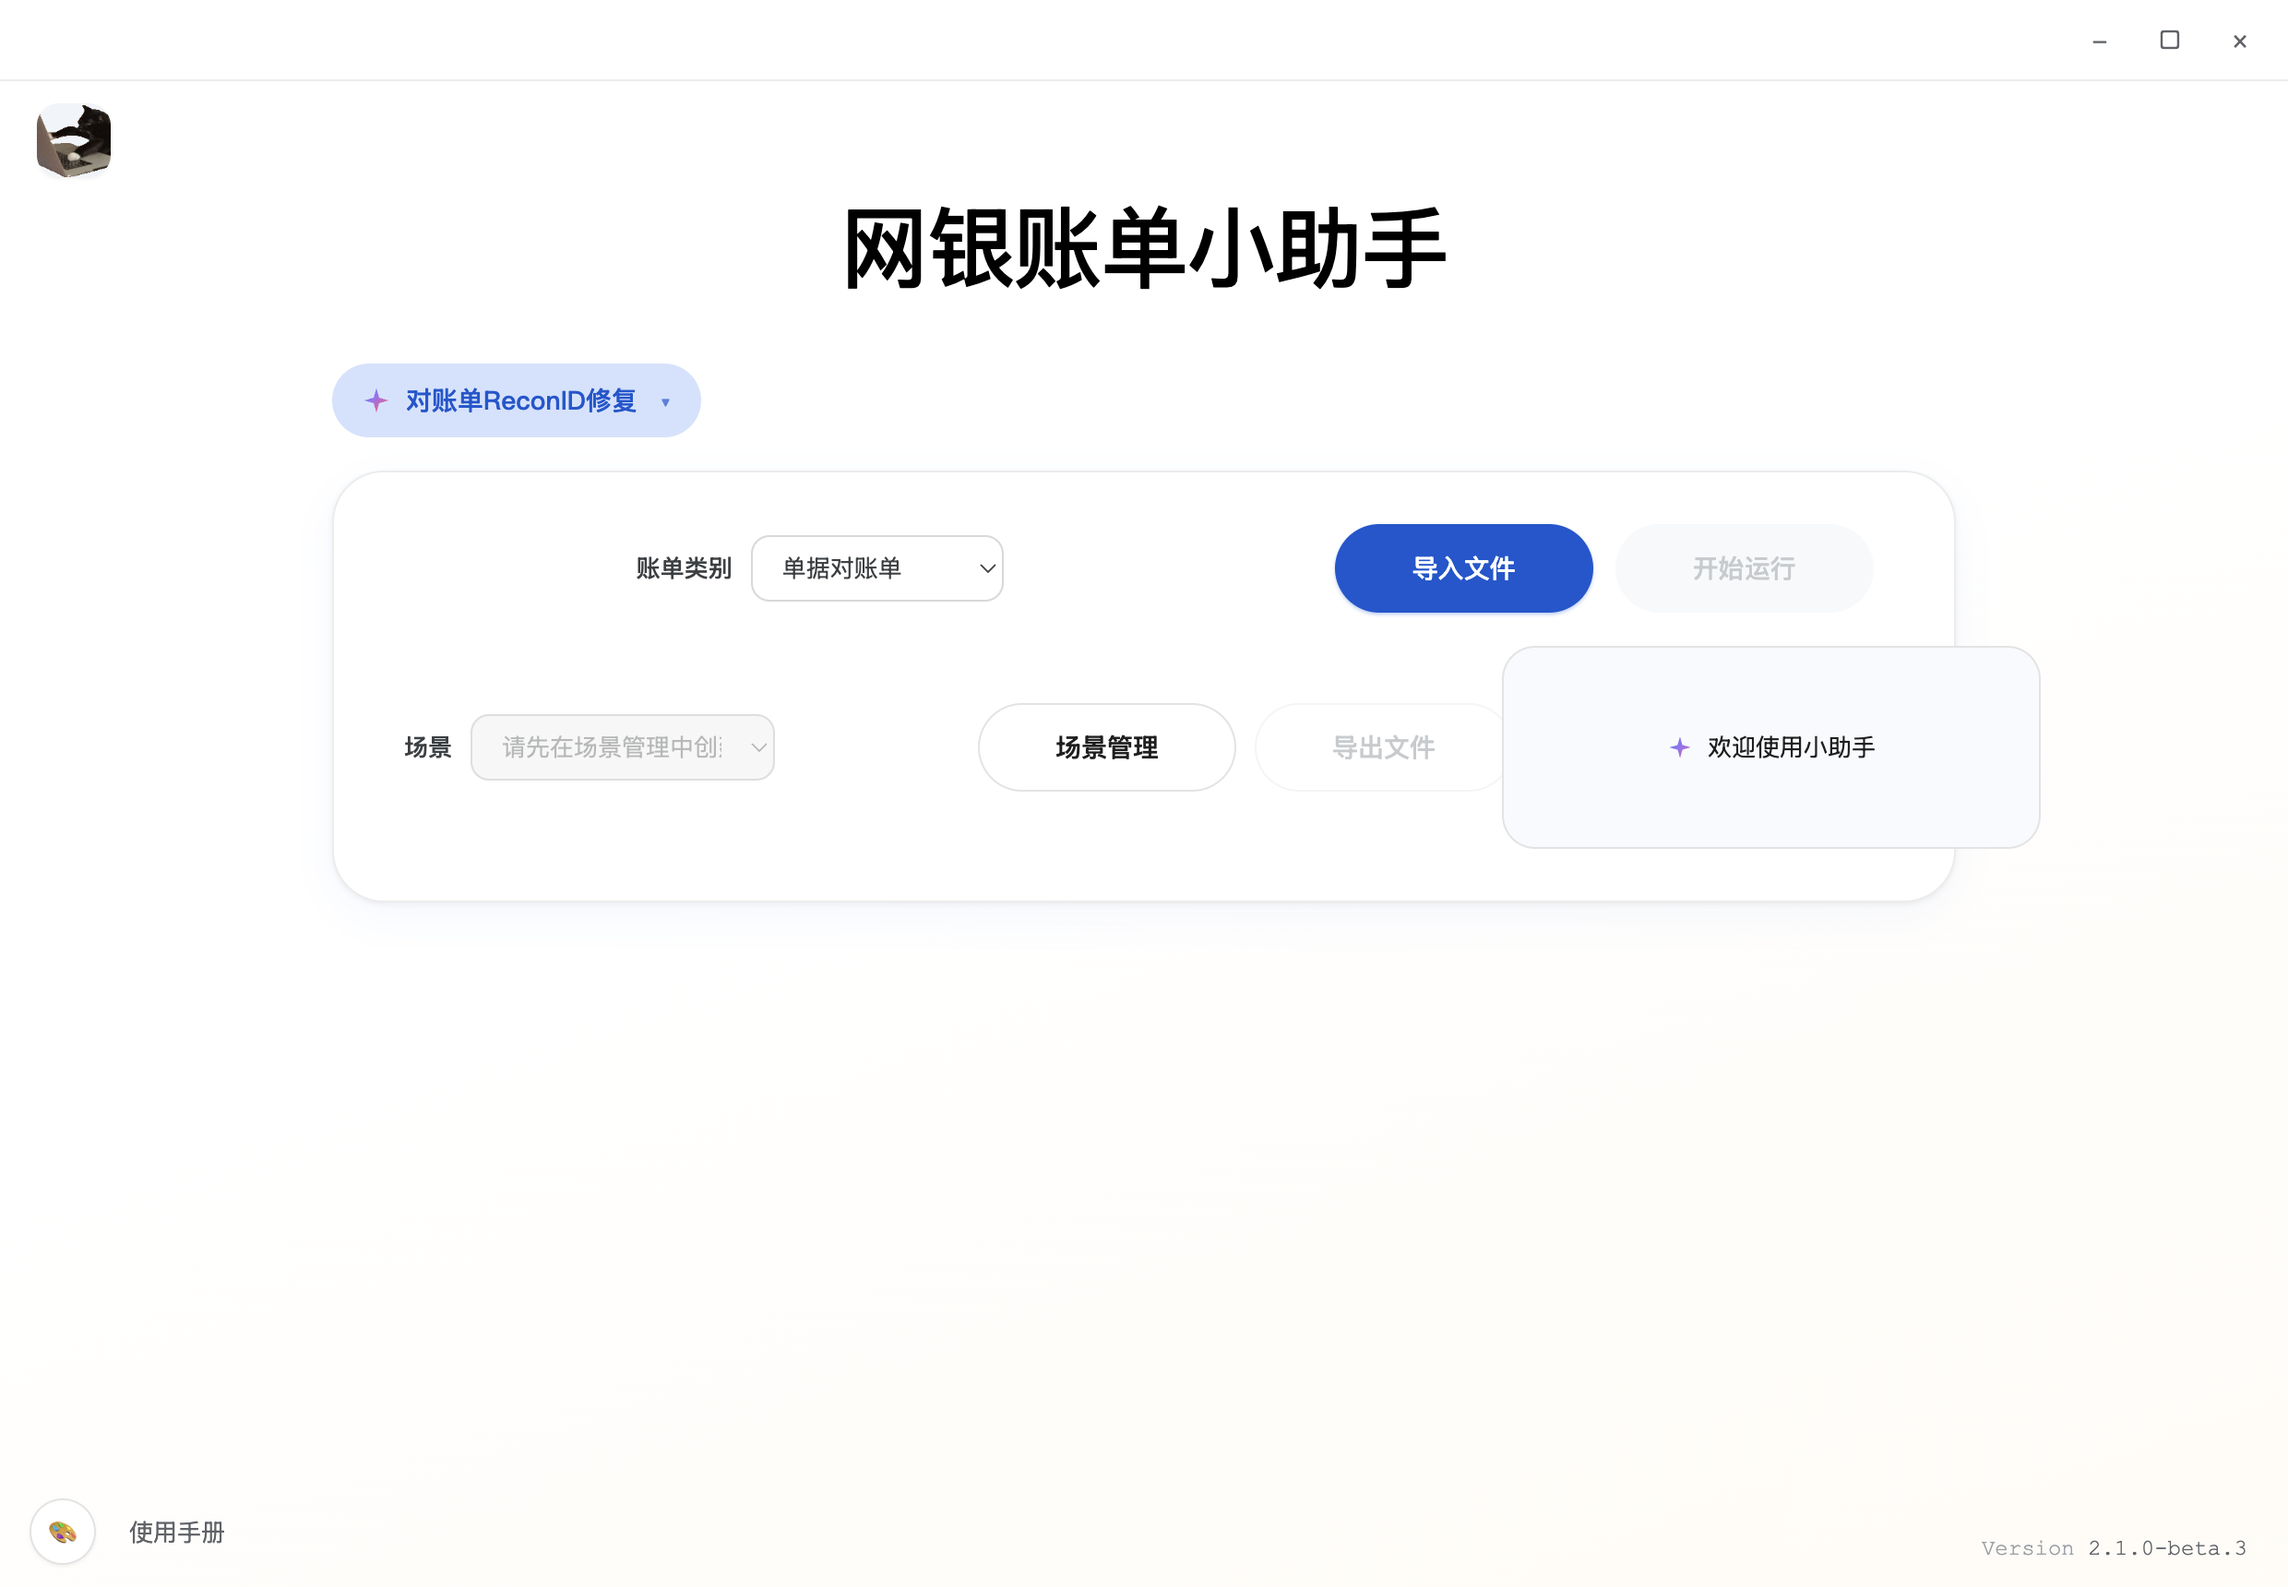
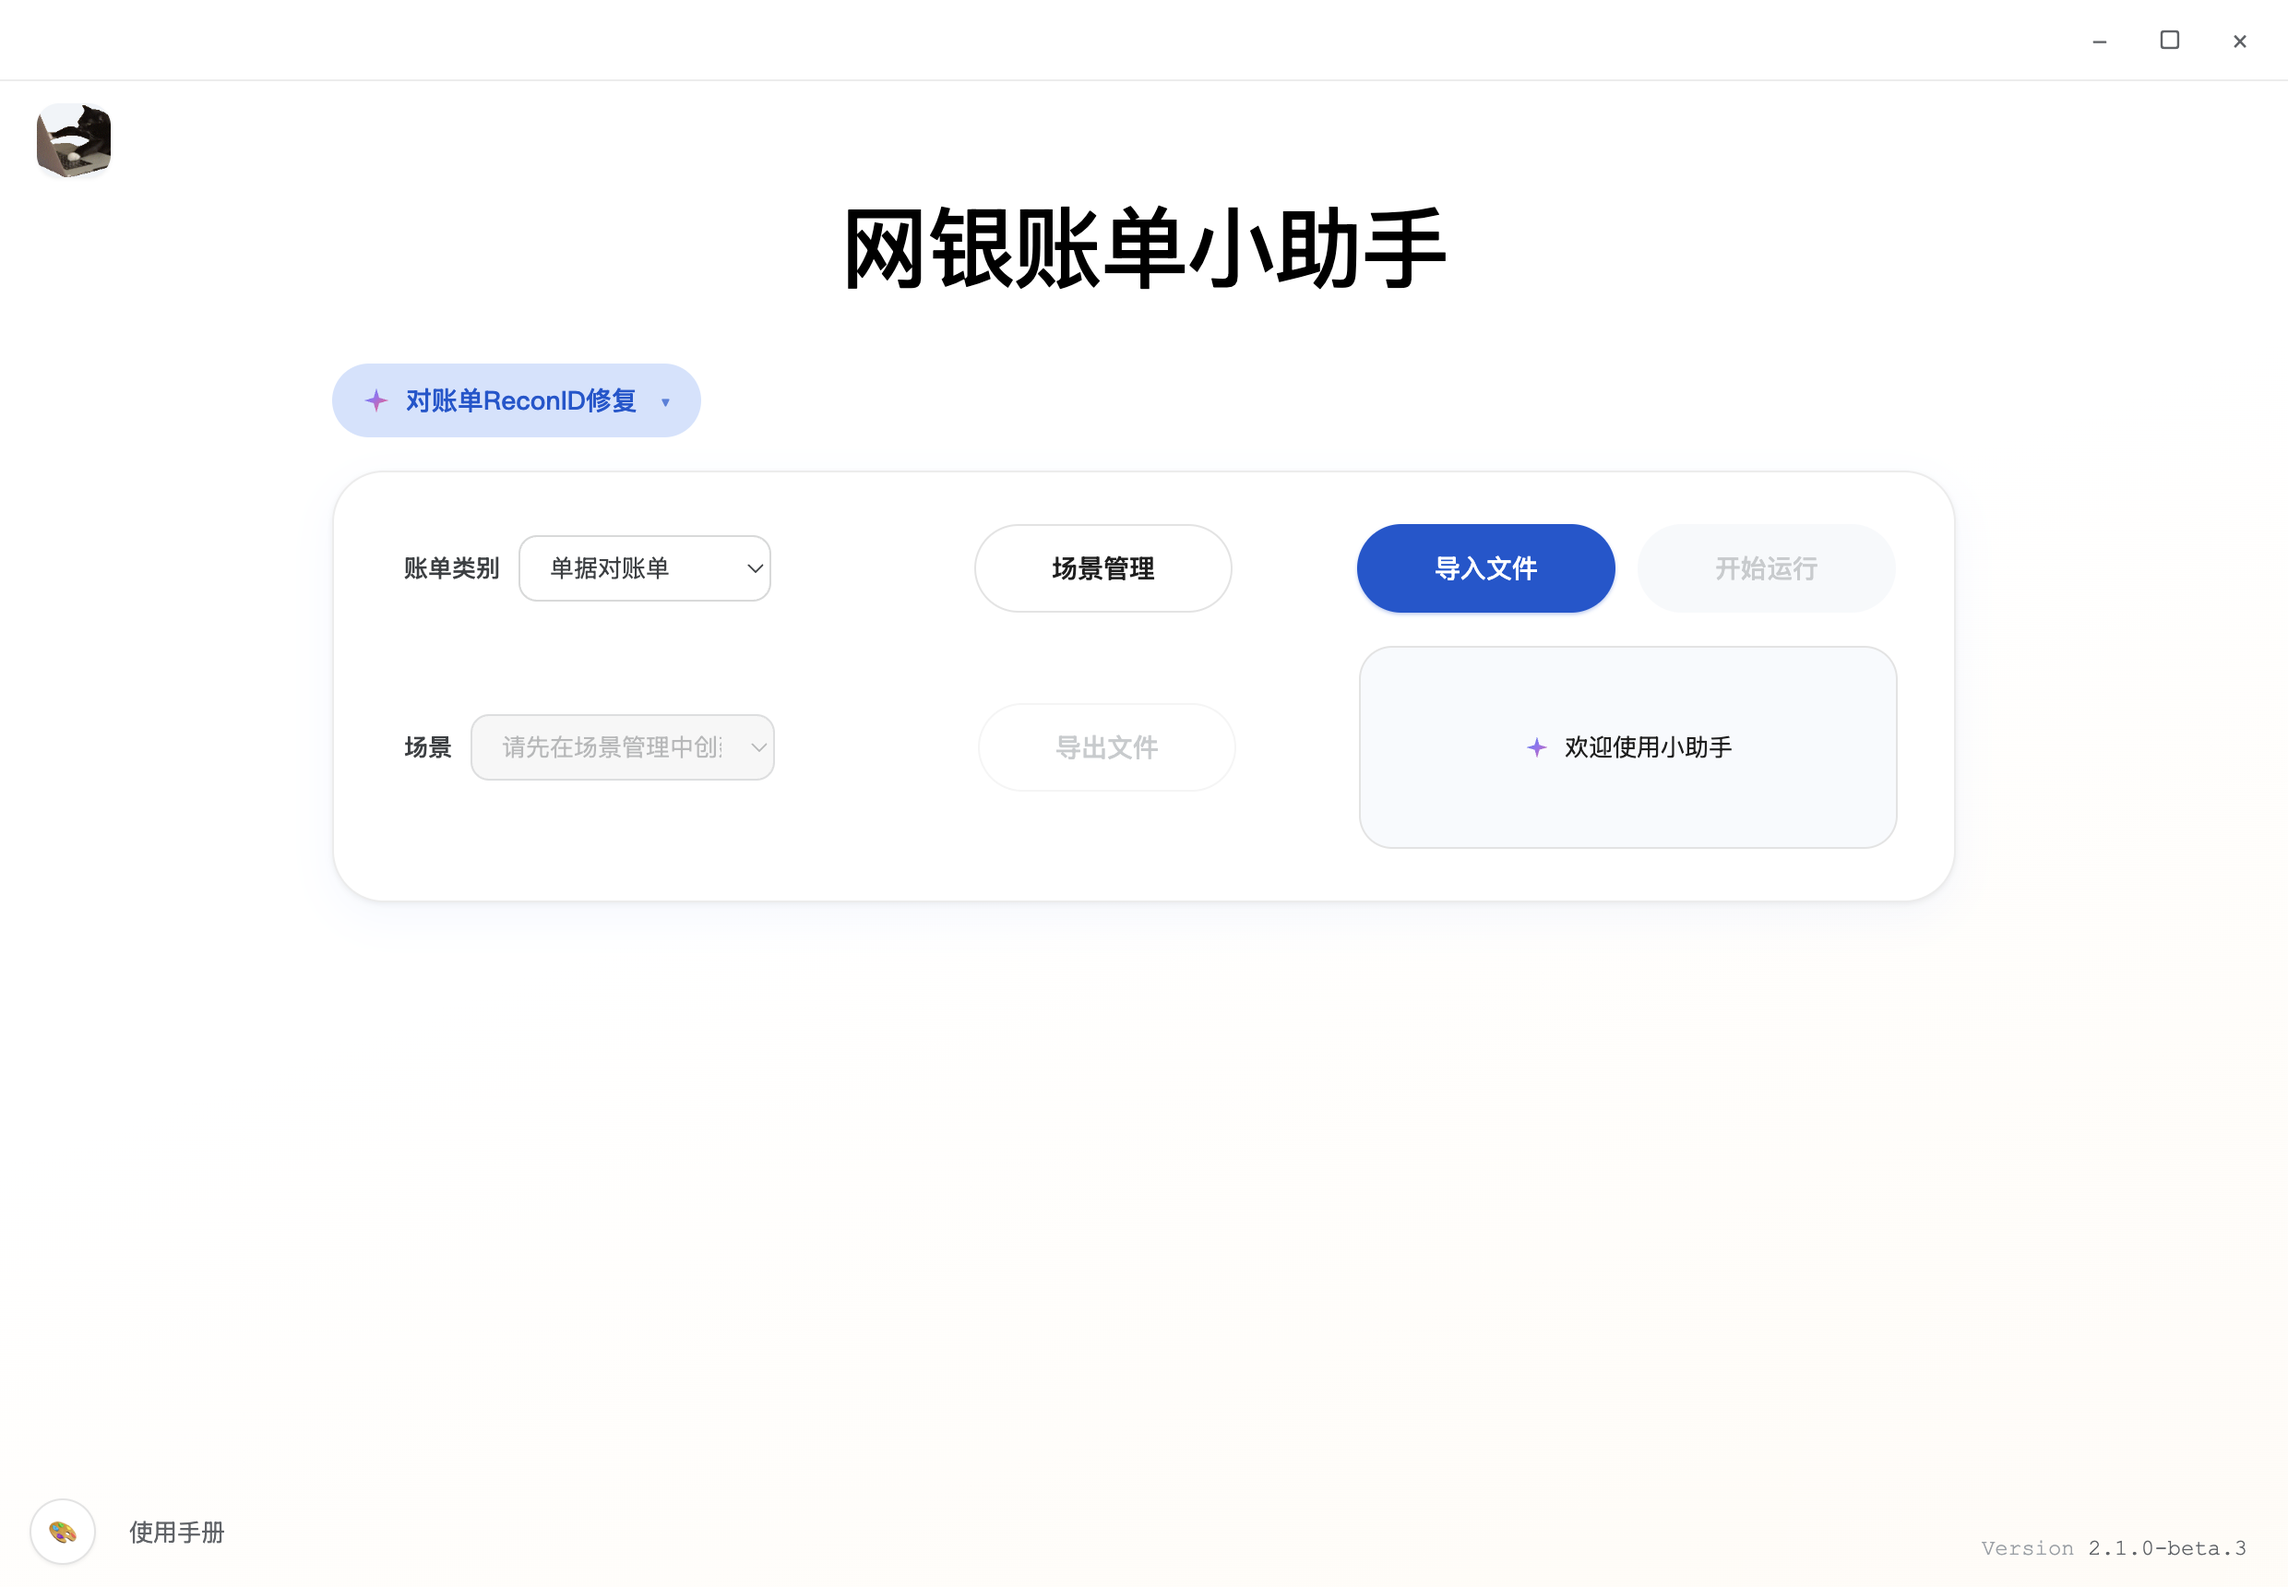
[v2.1.0-beta.3] fix(t11-feedback-2): 修正主面板布局对齐 — 场景管理按钮保持在行 1 左 cell，仅"场景及其下拉框"下移至与"导出文件"平行
用户反馈：
1) 状态框飞出主框、与导入/运行未对齐
2) 账单类别下拉位置不在原"场景"位置
3) 场景管理按钮不该与导出文件平行

根因：之前 T3 把"场景管理"按钮跟着"场景下拉"一起移到行 2 左 cell，导致行 1 仅有账单类别下拉（缺第三元素）撑不开 row 视觉宽度 + 行 2 cell.left 内容过多 + transform translateX 100px/74px 视觉对齐错位。

修复（index.html，HTML 结构调整一处）：
- 行 1 左 cell（.recon-id-fix-bill-category-row）：[账单类别 label + 下拉 + **场景管理**]（沿用 beta.2 三元素结构 + 复用 #reconIdFixManageScenariosBtn transform 100px）
- 行 2 左 cell（.recon-id-fix-scenario-row）：[场景 label + 下拉 + **导出文件**]（"场景及其下拉框"与"导出文件按钮"平行，符合需求）
- transform translateX 规则（100px / 74px）无需调整 — sceneManageBtn 仍按 beta.2 偏移 + 导出文件 复用同一偏移
- 状态框 .pending-action-pair / #reconIdFixStatusBox 透明保留 beta.2 transform 74px → 与导入/运行 视觉对齐恢复

preview 重跑（3 张主面板 png）：
- recon-id-fix-panel.png（空账单类别）：行 1 [账单类别 + 场景管理（灰）] / 行 2 [场景（灰）+ 导出文件（灰）] / 状态框对齐
- recon-id-fix-panel-business.png：账单类别=单据对账单 / 场景管理 enable / 导入文件 enable / 视觉一致
- recon-id-fix-panel-gateway.png：账单类别=网关对账单 / 同 business 结构
回归：npm run smoke 14 子套全绿

diff --git a/index.html b/index.html
@@ -211,8 +211,8 @@
           </section>
 
           <!-- v2.1.0-beta.1 PR-A：单据对账 ReconID 修复模块面板（fork bankStatementModulePanel）
-               v2.1.0-beta.2 PR-B（task B1）：行 1 左 cell = [场景下拉 + 场景管理]，行 1 右 cell = [导入文件 + 开始运行]，对齐银行对账单模块
-               v2.1.0-beta.3 T3：行 1 左 cell 改为 [账单类别下拉]（business/gateway 子模式切换）；行 2 左 cell 改为 [场景下拉 + 场景管理 + 导出文件]（账单类别为空时隐藏） -->
+               v2.1.0-beta.2 PR-B（task B1）：行 1 左 cell = [场景下拉 + 场景管理]，行 1 右 cell = [导入文件 + 开始运行]
+               v2.1.0-beta.3 T3：行 1 左 cell"场景下拉"位置 → 账单类别下拉；"场景及其下拉框"下移至与"导出文件"按钮平行（行 2 左 cell）；场景管理按钮 保持在 行 1 左 cell（与账单类别同组，沿用 beta.2 视觉对齐）；其他前端结构同 beta.2 版本 -->
           <section id="reconIdFixModulePanel" class="control-board module-panel bank-statement-board recon-id-fix-board" hidden>
             <div class="control-row">
               <div class="cell left">
@@ -223,6 +223,7 @@
                     <option value="gateway">网关对账单</option>
                     <option value="business">单据对账单</option>
                   </select>
+                  <button id="reconIdFixManageScenariosBtn" class="secondary-btn" type="button" disabled>场景管理</button>
                 </div>
               </div>
               <div class="cell right">
@@ -234,13 +235,12 @@
             </div>
             <div class="control-row">
               <div class="cell left">
-                <!-- v2.1.0-beta.3 T11 修订：账单类别为空时也始终显示行 2（按 beta.2 结构）；按钮 disabled 由 updateReconIdFixPanelVisibility 控制 -->
+                <!-- 行 2 左 cell：[场景 label + 场景下拉 + 导出文件]（场景与导出文件平行）；按钮 disabled 由 updateReconIdFixPanelVisibility 控制 -->
                 <div id="reconIdFixScenarioRow" class="recon-id-fix-scenario-row">
                   <label class="recon-id-fix-scenario-label" for="reconIdFixScenarioSelect">场景</label>
                   <select id="reconIdFixScenarioSelect" class="recon-id-fix-scenario-select" disabled>
                     <option value="">请选择场景</option>
                   </select>
-                  <button id="reconIdFixManageScenariosBtn" class="secondary-btn" type="button" disabled>场景管理</button>
                   <button id="reconIdFixExportBtn" class="secondary-btn" type="button" disabled>导出文件</button>
                 </div>
               </div>
